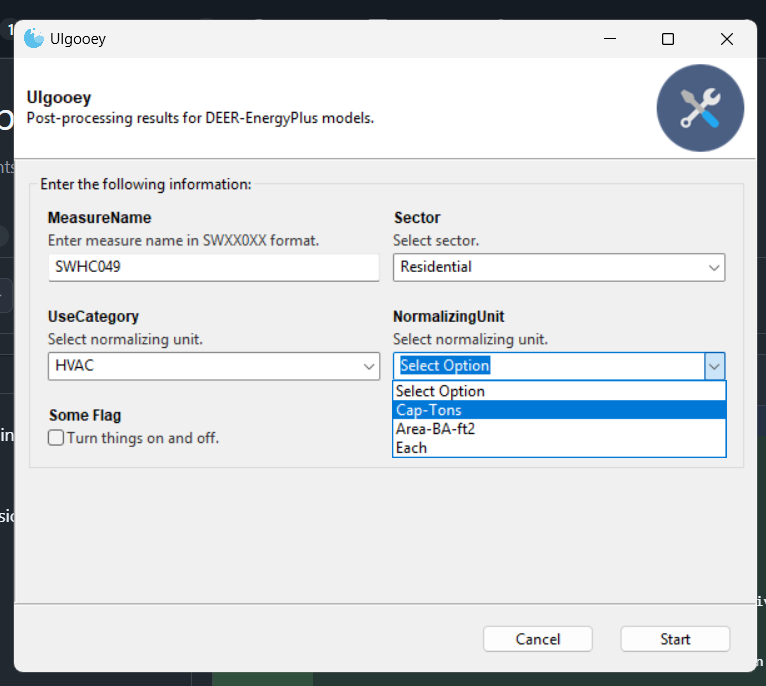
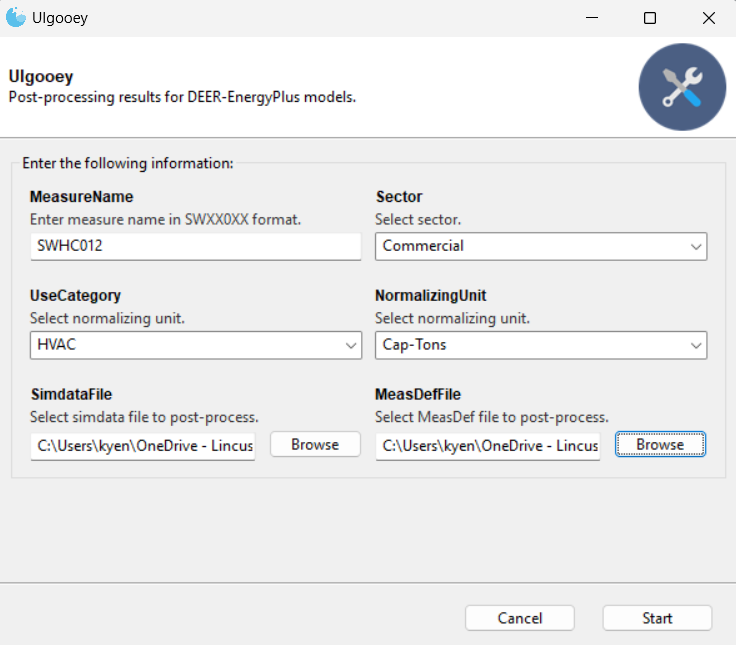
update UI to include file inputs

Changed region(s): [[0.0, 0.0, 1.0, 1.0], [0.375, 0.6512, 0.4688, 0.7132]]

diff --git a/UI/UIgooey.py b/UI/UIgooey.py
@@ -1,7 +1,5 @@
 '''
 1-15-2026: Created version 1 of UI
-1-27-2026: Configured script to use UI inputs
-
 '''
 
 from argparse import ArgumentParser
@@ -64,15 +62,23 @@ def main():
         help='Select normalizing unit.'
         )
 
-    #File: File chooser
+    #Simdata File: File chooser
     input.add_argument(
         '--SimdataFile',
         widget="FileChooser",
         help="Select simdata file to post-process."
     )
+    
+    #MeasDef File: File chooser
+    input.add_argument(
+        '--MeasDefFile',
+        widget="FileChooser",
+        help="Select MeasDef file to post-process."
+    )
+
     #output submitted information to user
     args = parser.parse_args()
-    print(f'Measure Name: {args.MeasureName} \nSector: {args.Sector} \nUse Category: {args.UseCategory} \nNormalizing Unit: {args.NormalizingUnit}')
+    print(f'Measure Name: {args.MeasureName}\nSector: {args.Sector}\nUse Category: {args.UseCategory}\nNormalizing Unit: {args.NormalizingUnit}\nSimdata File: {args.SimdataFile}\nMeasDef File: {args.MeasDefFile}')
 
 if __name__ == '__main__':
     main()
